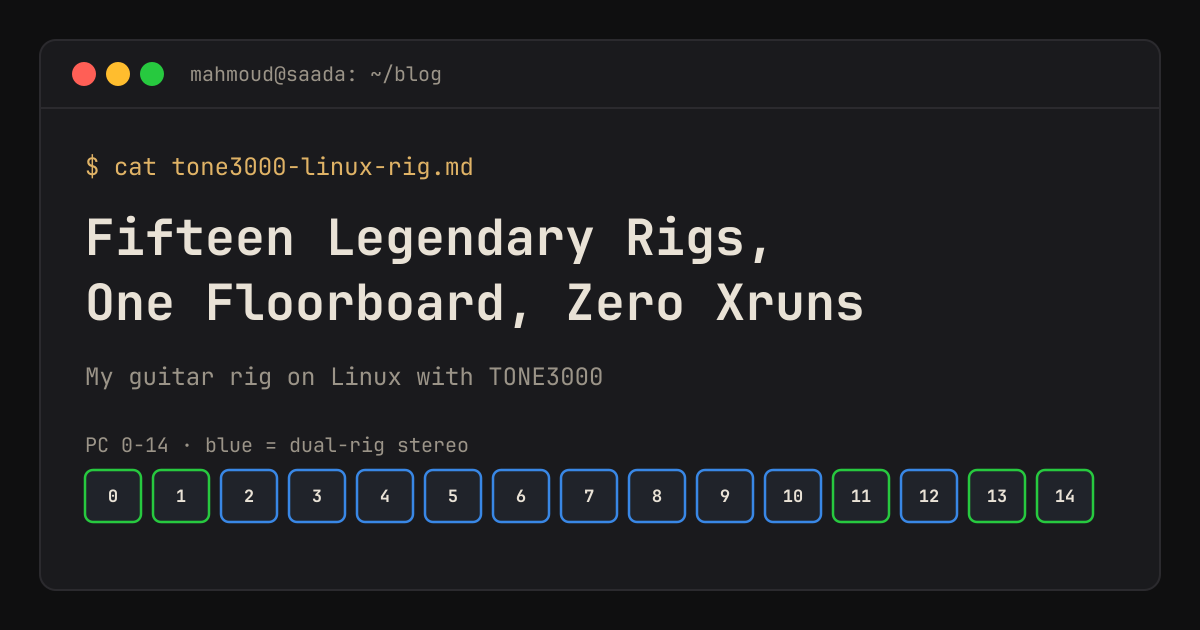
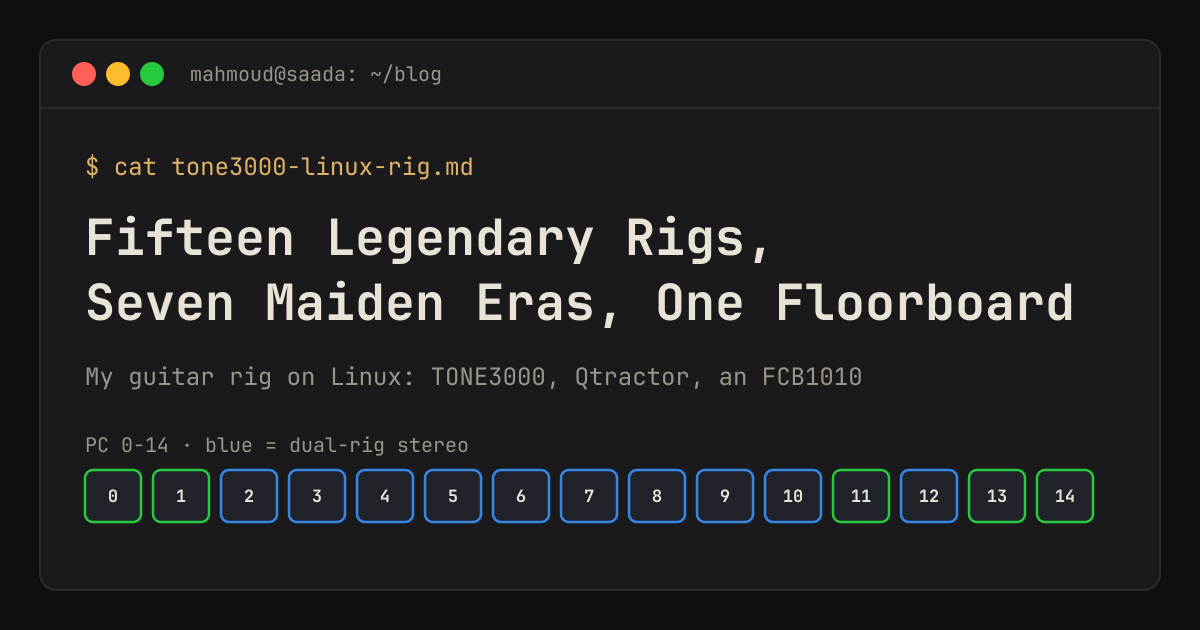
TONE3000 post: new title, tuner chapter, practice guide, stale-claim audit
- Retitle to "Fifteen Legendary Rigs, Seven Maiden Eras, One Floorboard: My
  Guitar Rig on Linux" (title, h1, og/twitter, JSON-LD, sitemap, home listing,
  og card); drop the "Zero Xruns" claim, new description covering the DAW,
  Maiden, harmony and tuner arc
- New chapter "SW10: the tuner that took four tries": Python -> x42 Tuna/jalv
  -> FMIT -> Chromatic, with the FMIT and Chromatic before/after screenshots,
  the Hyprland rule, the latch-mode mute (D13), and D14 (tuner on the mic,
  two instances, ~250 xruns in 12 s; 1 in ~15 s with it closed)
- New "Practice guide" section: once / every session / Maiden song recipes /
  troubleshooting, adapted from the README
- Commands use uv run instead of python3; uv added to the pacman line
- Audit vs fcb1010-biasfx2@633f6eb: live play + live FCB check noted in the
  limits list, re-login for real time still pending, D0-D14, part-one
  forward links to the wah/harmony/tuner, Trooper sixths wording

Claude-Session: https://claude.ai/code/session_012TKPMMo4XzZnfbupbKYXAR

Changed region(s): [[0.0617, 0.4524, 0.8942, 0.5127], [0.3392, 0.573, 0.74, 0.6333]]

diff --git a/blog/tone3000-linux-rig/index.html b/blog/tone3000-linux-rig/index.html
@@ -2,17 +2,17 @@
 <html lang="en"><head>
 <meta charset="utf-8">
 <meta name="viewport" content="width=device-width, initial-scale=1">
-<title>Fifteen Legendary Rigs, One Floorboard, Zero Xruns: My Guitar Rig on Linux with TONE3000</title>
-<meta name="description" content="BIAS FX 2 under Wine never felt right. Then TONE3000 shipped a native Linux plugin, and one very long Saturday later every song on my FCB1010 runs a researched copy of the band&#x27;s actual rig.">
+<title>Fifteen Legendary Rigs, Seven Maiden Eras, One Floorboard: My Guitar Rig on Linux</title>
+<meta name="description" content="BIAS FX 2 under Wine never felt right. Then TONE3000 shipped a native Linux plugin, and one very long weekend later my FCB1010 drives fifteen researched rigs, a DAW that&#x27;s generated instead of clicked, seven eras of Iron Maiden with instant scenes and a second guitarist on a footswitch, and a tuner that took four tries.">
 <meta name="author" content="Mahmoud Saada">
-<meta name="keywords" content="TONE3000, Qtractor, Iron Maiden, DAW, Neural Amp Modeler, NAM, Linux guitar, Omarchy, PipeWire, JACK, FCB1010, BIAS FX 2, Wine, latency, xruns, gain staging, impulse response, reverse engineering">
+<meta name="keywords" content="TONE3000, Qtractor, Iron Maiden, DAW, guitar tuner, Chromatic, Hyprland, Neural Amp Modeler, NAM, Linux guitar, Omarchy, PipeWire, JACK, FCB1010, BIAS FX 2, Wine, latency, xruns, gain staging, impulse response, reverse engineering">
 <meta name="robots" content="index, follow, max-image-preview:large, max-snippet:-1">
 <link rel="canonical" href="https://saada.github.io/blog/tone3000-linux-rig/">
 <meta name="theme-color" content="#0f0f10">
 <meta property="og:type" content="article">
 <meta property="og:site_name" content="Mahmoud Saada">
-<meta property="og:title" content="Fifteen Legendary Rigs, One Floorboard, Zero Xruns: My Guitar Rig on Linux with TONE3000">
-<meta property="og:description" content="BIAS FX 2 under Wine never felt right. Then TONE3000 shipped a native Linux plugin, and one very long Saturday later every song on my FCB1010 runs a researched copy of the band&#x27;s actual rig.">
+<meta property="og:title" content="Fifteen Legendary Rigs, Seven Maiden Eras, One Floorboard: My Guitar Rig on Linux">
+<meta property="og:description" content="BIAS FX 2 under Wine never felt right. Then TONE3000 shipped a native Linux plugin, and one very long weekend later my FCB1010 drives fifteen researched rigs, a DAW that&#x27;s generated instead of clicked, seven eras of Iron Maiden with instant scenes and a second guitarist on a footswitch, and a tuner that took four tries.">
 <meta property="og:url" content="https://saada.github.io/blog/tone3000-linux-rig/">
 <meta property="og:locale" content="en_US">
 <meta property="og:image" content="https://saada.github.io/blog/tone3000-linux-rig/images/og-card.png">
@@ -20,6 +20,7 @@
 <meta property="og:image:height" content="630">
 <meta property="og:image:alt" content="A guitar rig running natively on Linux with TONE3000 and an FCB1010">
 <meta property="article:published_time" content="2026-09-26T00:00:00Z">
+<meta property="article:modified_time" content="2026-09-27T00:00:00Z">
 <meta property="article:author" content="Mahmoud Saada">
 <meta property="article:section" content="Engineering">
 <meta property="article:tag" content="Linux">
@@ -28,8 +29,8 @@
 <meta name="twitter:card" content="summary_large_image">
 <meta name="twitter:site" content="@saadazzz">
 <meta name="twitter:creator" content="@saadazzz">
-<meta name="twitter:title" content="Fifteen Legendary Rigs, One Floorboard, Zero Xruns: My Guitar Rig on Linux with TONE3000">
-<meta name="twitter:description" content="BIAS FX 2 under Wine never felt right. Then TONE3000 shipped a native Linux plugin, and one very long Saturday later every song on my FCB1010 runs a researched copy of the band&#x27;s actual rig.">
+<meta name="twitter:title" content="Fifteen Legendary Rigs, Seven Maiden Eras, One Floorboard: My Guitar Rig on Linux">
+<meta name="twitter:description" content="BIAS FX 2 under Wine never felt right. Then TONE3000 shipped a native Linux plugin, and one very long weekend later my FCB1010 drives fifteen researched rigs, a DAW that&#x27;s generated instead of clicked, seven eras of Iron Maiden with instant scenes and a second guitarist on a footswitch, and a tuner that took four tries.">
 <meta name="twitter:image" content="https://saada.github.io/blog/tone3000-linux-rig/images/og-card.png">
 <meta name="twitter:image:alt" content="A guitar rig running natively on Linux with TONE3000 and an FCB1010">
 <script type="application/ld+json">
@@ -37,13 +38,13 @@
   "@context": "https://schema.org",
   "@type": "BlogPosting",
   "mainEntityOfPage": { "@type": "WebPage", "@id": "https://saada.github.io/blog/tone3000-linux-rig/" },
-  "headline": "Fifteen Legendary Rigs, One Floorboard, Zero Xruns: My Guitar Rig on Linux with TONE3000",
-  "description": "BIAS FX 2 under Wine never felt right. Then TONE3000 shipped a native Linux plugin, and one very long Saturday later every song on my FCB1010 runs a researched copy of the band&#x27;s actual rig.",
+  "headline": "Fifteen Legendary Rigs, Seven Maiden Eras, One Floorboard: My Guitar Rig on Linux",
+  "description": "BIAS FX 2 under Wine never felt right. Then TONE3000 shipped a native Linux plugin, and one very long weekend later my FCB1010 drives fifteen researched rigs, a DAW that&#x27;s generated instead of clicked, seven eras of Iron Maiden with instant scenes and a second guitarist on a footswitch, and a tuner that took four tries.",
   "image": "https://saada.github.io/blog/tone3000-linux-rig/images/og-card.png",
   "datePublished": "2026-09-26T00:00:00Z",
-  "dateModified": "2026-09-26T00:00:00Z",
+  "dateModified": "2026-09-27T00:00:00Z",
   "inLanguage": "en",
-  "keywords": "TONE3000, NAM, Linux, PipeWire, FCB1010, latency, gain staging",
+  "keywords": "TONE3000, NAM, Linux, PipeWire, Qtractor, Iron Maiden, FCB1010, latency, gain staging",
   "author": {
     "@type": "Person",
     "name": "Mahmoud Saada",
@@ -218,6 +219,13 @@ ul.chain .role { font-family:var(--mono); font-size:.72rem; color:var(--muted); 
   .toc { columns:1 }
   figure.viz { padding:12px 10px 10px }
 }
+.shots { display:flex; gap:12px; align-items:flex-start; margin:26px 0 10px }
+.shots figure { margin:0; min-width:0 }
+.shots img { margin:0; width:100% }
+@media (max-width: 560px) {
+  .shots { flex-direction:column }
+  .shots figure { flex:none !important; width:100% }
+}
 
 .viz text { font-family: "JetBrains Mono", ui-monospace, Menlo, monospace; fill: var(--viz-muted); font-size: 11px; }
 .viz .t-sub { fill: var(--viz-ink); font-size: 11.5px; font-weight: 700; }
@@ -269,15 +277,15 @@ ul.chain .role { font-family:var(--mono); font-size:.72rem; color:var(--muted); 
     </div>
     <div class="terminal__body">
       <div class="prompt">cat tone3000-linux-rig.md</div>
-      <h1>Fifteen Legendary Rigs, One Floorboard, Zero Xruns: My Guitar Rig on Linux with TONE3000</h1>
-      <div class="subtitle">BIAS FX 2 under Wine never felt right. Then TONE3000 shipped a native Linux plugin, and one very long Saturday later every song on my FCB1010 runs a researched copy of the band&#x27;s actual rig.<span class="cursor">▋</span></div>
+      <h1>Fifteen Legendary Rigs, Seven Maiden Eras, One Floorboard: My Guitar Rig on Linux</h1>
+      <div class="subtitle">BIAS FX 2 under Wine never felt right. Then TONE3000 shipped a native Linux plugin, and one very long weekend later my FCB1010 drives fifteen researched rigs, a DAW that&#x27;s generated instead of clicked, seven eras of Iron Maiden with instant scenes and a second guitarist on a footswitch, and a tuner that took four tries.<span class="cursor">▋</span></div>
     </div>
   </header>
   <article>
 <p>Two months ago I wrote about how <a href="/blog/fcb1010-biasfx2/">my dusty Behringer FCB1010 and BIAS FX 2 finally started talking to each other</a>, and how I stood in my living room grinning through The Evil That Men Do. Then I did the thing every developer threatens to do and eventually does: I left macOS. My laptop runs <a href="https://omarchy.org">Omarchy</a> now, the opinionated Arch + Hyprland setup, and I love it.</p>
 <p>My guitar rig did not come along quietly.</p>
 <p>This post is the story of one very long Saturday. It has a native Linux amp-sim plugin I'm genuinely excited about, a reverse-engineered preset format, fifteen research agents arguing about what amp Dave Murray used in 1988, a bug that only bites WAV files with an odd number of bytes, a pile of latency measurements, and a volume slider that had been quietly stealing 24 dB from me the whole time. There are charts. Of course there are charts.</p>
-<p>And when the day should have been over, <a href="#part-two">part two</a>: a DAW that's generated instead of clicked, a compressor that ended a day of hand-leveling, and <a href="#maiden">seven eras of Iron Maiden</a> on one floorboard, with scene switching that doesn't drop a single chord and a footswitch that adds <a href="#harmony">the second guitarist</a>. If you're only here for the board, all ten banks are in <a href="#pedal-map">the full pedal map</a>.</p>
+<p>And when the day should have been over, <a href="#part-two">part two</a>: a DAW that's generated instead of clicked, a compressor that ended a day of hand-leveling, and <a href="#maiden">seven eras of Iron Maiden</a> on one floorboard, with scenes that switch without the hole a preset load leaves and a footswitch that adds <a href="#harmony">the second guitarist</a>. Then Sunday, and <a href="#tuner">a tuner that took four tries</a> and taught me something about dropouts. If you're only here for the board, all ten banks are in <a href="#pedal-map">the full pedal map</a>, and <a href="#practice">the practice guide</a> is how I actually use it.</p>
 
 <h2>10 ms on paper, mud in my hands</h2>
 <p>BIAS FX 2 is a Windows/macOS app, so on Linux it runs under Wine. And it <em>did</em> run! Presets loaded, the FCB1010 switched them, the tones sounded like my tones. The app even told me my latency was about 10 ms, which is perfectly playable.</p>
@@ -671,16 +679,16 @@ def load_t3kb(data):
 <h2>What TONE3000 can't do (yet)</h2>
 <p>I'm excited about this plugin, so let me be honest about the gaps too:</p>
 <ul>
-<li><strong>No time-varying effects.</strong> Chorus, flanger, phaser, wah, pitch and rotary can't be captured. So no wah on EXP A anymore (it sweeps treble instead), no Leslie for Gilmour, no Whammy for My Iron Lung, and <strong>no harmonizer</strong>. The 3rds trick from my last post is BIAS-only; on TONE3000, the Maiden twin leads need two players again. Align and Spread wobble get you movement, not modulation.</li>
+<li><strong>No time-varying effects.</strong> Chorus, flanger, phaser, wah, pitch and rotary can't be captured. So no wah on EXP A anymore (it sweeps treble instead), no Leslie for Gilmour, no Whammy for My Iron Lung, and <strong>no harmonizer</strong>. The 3rds trick from my last post is BIAS-only; on TONE3000 alone, the Maiden twin leads need two players again. (Part two brings back <a href="#part-two">the wah</a> and <a href="#harmony">the harmony</a>, from a DAW.) Align and Spread wobble get you movement, not modulation.</li>
 <li><strong>No built-in delay or reverb.</strong> Generated echo IRs work, but they're frozen: fixed time, no tap tempo, no feedback knob mid-song.</li>
 <li><strong>Some captures are stand-ins.</strong> A IIC+ plays Prince's IIB, a PCM90/91 plays the PCM70, the Triple Giant is a circuit simulation rather than a real unit, the Sunset Sound plate is a DAW emulation, there's no Colorsound Powerboost, and both Leslie captures in the catalog failed to resolve. Every preset's notes say exactly what's approximated.</li>
 <li><strong>One amp per side.</strong> Oasis's Orange, WEM and Valvestate layers and Jim Root's Laney didn't make the cut.</li>
-<li><strong>Loose ends.</strong> The relative loudness of the two sides of each dual rig is still untested, the tuner isn't MIDI-mappable (part two puts <a href="#pedal-map">a tuner app, Chromatic, on SW10</a> instead), and the silent-IR bugs are worked around, not fixed.</li>
+<li><strong>Loose ends.</strong> The relative loudness of the two sides of each dual rig is still untested, the tuner isn't MIDI-mappable (part two puts <a href="#tuner">a tuner app, Chromatic, on SW10</a> instead), and the silent-IR bugs are worked around, not fixed.</li>
 </ul>
 <p>And it's version 0.0.9. For a 0.0.9, this is ridiculous.</p>
 
 <h2>We did it</h2>
-<p>A native Linux amp sim, fifteen researched rigs, one floorboard that didn't need a single SysEx byte changed, zero xruns, and exactly one volume knob. On Linux. On a laptop.</p>
+<p>A native Linux amp sim, fifteen researched rigs, one floorboard that didn't need a single SysEx byte changed, zero xruns at 256 samples in the standalone, and exactly one volume knob. On Linux. On a laptop. (Xruns come back in part two, with three TONE3000s in a DAW. I'm not done with them.)</p>
 <p>Same as last time, I did all of this pair-programming, this time with Claude Code. It reverse-engineered the preset format and the settings blob, read the disassembly, ran the fifteen research agents, and ran every A/B test above with <code>pw-top</code> and <code>pw-record</code> while I played. The thing I appreciate most: when the experiments rejected our hypotheses, the write-ups say so.</p>
 <p>Everything is open source on the <code>linux-wine-support</code> branch of <strong><a href="https://github.com/saada/fcb1010-biasfx2">github.com/saada/fcb1010-biasfx2</a></strong> (<a href="https://github.com/saada/fcb1010-biasfx2/pull/1">PR #1</a>):</p>
 <ul>
@@ -790,7 +798,7 @@ cd fcb1010-biasfx2
 <p><strong>What every switch sends.</strong> Scene switches send absolute values, so they're instant and always land in the same state. Everything on the top row is a toggle: the stock FCB sends 127 on every press, and every press flips it.</p>
 <div class="tablewrap"><table><thead><tr><th>Switch</th><th>Song banks 00–02</th><th>Maiden banks 03–09</th></tr></thead><tbody><tr><td>SW1</td><td rowspan="5"><strong>SONG</strong>: PC 0–14 on ch 1, CC 80 = 63, CC 81 = 0. <em>Preset load.</em> Loads the song and resets the scene state: heavy rig, Solo block off.</td><td><strong>RHYTHM</strong>: PC heavy (ch 1) + clean (ch 2) + harmony (ch 3), CC 80 = 63, CC 81 = 0. <em>Instant scene.</em> Twin-guitar rhythm. After a bank change, this is what loads the era.</td></tr><tr><td>SW2</td><td><strong>SOLO</strong>: no PC, CC 80 = 72, CC 81 = 0. <em>Instant scene.</em> Amps pushed, +2 dB and the song's lead echo.</td></tr><tr><td>SW3</td><td><strong>CLEAN</strong>: PC heavy (ch 1) + clean (ch 2) + harmony (ch 3), CC 80 = 63, CC 81 = 127. <em>Instant scene.</em> The era's reverby clean.</td></tr><tr><td>SW4</td><td><strong>ACOUSTIC</strong>: the same PCs with the acoustic preset on ch 2, CC 80 = 63, CC 81 = 127. <em>Instant scene.</em> Electric-to-acoustic.</td></tr><tr><td>SW5</td><td><strong>CRUNCH</strong>: no PC, CC 80 = 48, CC 81 = 0. <em>Instant scene.</em> The volume-knob-down sound.</td></tr><tr><td>SW6</td><td colspan="2"><strong>WAH</strong>: CC 20. <em>Toggle.</em> The Guitarix wah in the DAW; EXP A sweeps it.</td></tr><tr><td>SW7</td><td><strong>OCTAVER</strong>: CC 21. <em>Toggle.</em> Guitarix, an octave down.</td><td><strong>HARMONY</strong>: CC 25. <em>Toggle.</em> The second guitarist, a diatonic third up in the song's key.</td></tr><tr><td>SW8</td><td><strong>LEAD</strong>: CC 26. <em>Toggle.</em> The boost (slot 1) and the song's echo (slot 5, and R3 on a dual rig) together.</td><td><strong>BOOST</strong>: CC 22. <em>Toggle.</em> The boost pedal (slot 1).</td></tr><tr><td>SW9</td><td><strong>DRIVE</strong>: CC 23. <em>Toggle.</em> The song's drive pedal (slot 2).</td><td><strong>DELAY + REVERB</strong>: CC 24. <em>Toggle.</em> The era's delay + reverb (slot 5 and R3).</td></tr><tr><td>SW10</td><td colspan="2"><strong>TUNER</strong>: CC 28. <em>Toggle.</em> The helper mutes the rig and opens Chromatic, a tuner, on the clean guitar input. Press again to play.</td></tr><tr><td>EXP A</td><td colspan="2">CC 27: wah sweep.</td></tr><tr><td>EXP B</td><td colspan="2">CC 7: volume (TONE3000's output level).</td></tr></tbody></table></div>
 <p class="caption">From the pedal map in <a href="https://github.com/saada/fcb1010-biasfx2/blob/linux-wine-support/README.md">README.md</a>, with the numbers from <a href="https://github.com/saada/fcb1010-biasfx2/blob/linux-wine-support/rig.py">rig.py</a>.</p>
-<p><strong>The tuner.</strong> TONE3000's own tuner is a button you click in its UI, with no MIDI target, so SW10 goes through the helper instead. On CC 28 it mutes the rig and opens Chromatic, a GTK4 tuner from Flathub, with <code>PIPEWIRE_NODE</code> set to the guitar input so it hears only the clean guitar. Press again: <code>flatpak kill</code> closes the window and the rig comes back. A Hyprland rule floats it centred, 1100×760 and opaque (it's in the <a href="https://github.com/saada/fcb1010-biasfx2/blob/linux-wine-support/README.md">README</a>). Chromatic is the fourth tuner. Claude's first attempt was hand-rolled in Python; I wanted existing software, not a custom tuner. Next came x42 Tuna, from the plugin pack the rig already installs, in its own window via <code>jalv</code>. It worked, but I found it ugly. Then FMIT, a Qt app: its fixed layout didn't survive tiling and the note readout got clipped. "Insanely ugly with bad aspect ratios", in my words, and not playing nice with Hyprland. So it's Chromatic. Muting the rig took four tries; that's <a href="#d13">D13</a>.</p>
+<p><strong>The tuner.</strong> SW10 mutes the rig and opens a tuner on the guitar input; press it again to play. It's the same in all ten banks. It also took four tries and one very confusing practice session, so it gets <a href="#tuner">its own chapter</a>.</p>
 
 <h3>Why a scene can't just be a preset</h3>
 <p>The obvious design is a preset per scene and a Program Change per stomp. Before building that, we measured what a PC costs.</p>
@@ -884,7 +892,7 @@ cd fcb1010-biasfx2
 <p><strong>And then the honest part.</strong> Repeat steady runs of the same rig, nothing touched: 31, 4 and 12 xruns, at a median load of only 0.43–0.55 of the cycle. A load that low doesn't explain xruns that random. Scheduling does. No audio thread on this machine was running real-time: Qtractor's and PipeWire's data loops were <code>SCHED_OTHER</code>, <code>ulimit -r</code> was 0, and PipeWire's log said <code>RTKit error: ServiceUnknown</code>. Remember the realtime group from part one, the one my session didn't have yet? I'm in it, <code>realtime-privileges</code> is installed, but the group was added after I logged in, so no running process has it.</p>
 <figure class="viz "><div class="viz__scroll"><svg viewBox="0 0 720 262" role="img" aria-label="Bars of xruns: 71 over 7 bank changes with 3.5 s reverb tails, 0 with them capped at 2 s, and 31, 4 and 12 in repeat steady runs" xmlns="http://www.w3.org/2000/svg"><line x1="272.0" x2="272.0" y1="22" y2="222" class="grid" /><text x="272.0" y="236.0" text-anchor="middle" class="t-tick">0</text><line x1="364.0" x2="364.0" y1="22" y2="222" class="grid" /><text x="364.0" y="236.0" text-anchor="middle" class="t-tick">20</text><line x1="456.0" x2="456.0" y1="22" y2="222" class="grid" /><text x="456.0" y="236.0" text-anchor="middle" class="t-tick">40</text><line x1="548.0" x2="548.0" y1="22" y2="222" class="grid" /><text x="548.0" y="236.0" text-anchor="middle" class="t-tick">60</text><line x1="640.0" x2="640.0" y1="22" y2="222" class="grid" /><text x="640.0" y="236.0" text-anchor="middle" class="t-tick">80</text><text x="0.0" y="16.0" class="t-sub">Three TONE3000s: bank and scene changes</text><text x="262.0" y="39.0" text-anchor="end" class="t-label">7 bank changes, 3.5 s reverb tails</text><g><title>7 bank changes, 3.5 s reverb tails: 71 xruns</title><path d="M272.0,28.0 H594.6 Q598.6,28.0 598.6,32.0 V36.0 Q598.6,40.0 594.6,40.0 H272.0 Z" class="m-2" /></g><text x="606.6" y="39.0" class="t-value">71</text><text x="262.0" y="61.0" text-anchor="end" class="t-label">7 bank changes, long IRs removed</text><g><title>7 bank changes, long IRs removed: 0 xruns</title><circle cx="272.5" cy="56.0" r="4" class="m-1" /></g><text x="280.0" y="61.0" class="t-value">0</text><text x="262.0" y="83.0" text-anchor="end" class="t-label">7 bank changes, tails cut at 2.0 s</text><g><title>7 bank changes, tails cut at 2.0 s: 0 xruns</title><circle cx="272.5" cy="78.0" r="4" class="m-3" /></g><text x="280.0" y="83.0" class="t-value">0</text><text x="262.0" y="105.0" text-anchor="end" class="t-label">20 scene switches, tails cut at 2.0 s</text><g><title>20 scene switches, tails cut at 2.0 s: 3 xruns</title><path d="M272.0,94.0 H281.8 Q285.8,94.0 285.8,98.0 V102.0 Q285.8,106.0 281.8,106.0 H272.0 Z" class="m-3" /></g><text x="293.8" y="105.0" class="t-value">3</text><text x="0.0" y="138.0" class="t-sub">Same rig, nothing touched: three repeat steady runs</text><text x="262.0" y="161.0" text-anchor="end" class="t-label">run 1</text><g><title>run 1: 31 xruns</title><path d="M272.0,150.0 H410.6 Q414.6,150.0 414.6,154.0 V158.0 Q414.6,162.0 410.6,162.0 H272.0 Z" class="m-1" /></g><text x="422.6" y="161.0" class="t-value">31</text><text x="262.0" y="183.0" text-anchor="end" class="t-label">run 2</text><g><title>run 2: 4 xruns</title><path d="M272.0,172.0 H286.4 Q290.4,172.0 290.4,176.0 V180.0 Q290.4,184.0 286.4,184.0 H272.0 Z" class="m-1" /></g><text x="298.4" y="183.0" class="t-value">4</text><text x="262.0" y="205.0" text-anchor="end" class="t-label">run 3</text><g><title>run 3: 12 xruns</title><path d="M272.0,194.0 H323.2 Q327.2,194.0 327.2,198.0 V202.0 Q327.2,206.0 323.2,206.0 H272.0 Z" class="m-1" /></g><text x="335.2" y="205.0" class="t-value">12</text><text x="272.0" y="254.0" class="t-axis">xruns · the steady runs: median only 0.43–0.55 B/Q</text></svg></div></figure><p class="caption">D11: xruns with three TONE3000s. The 3.5 s tail length is from the <a href="https://github.com/saada/fcb1010-biasfx2/blob/linux-wine-support/tone3000.py"><code>IR_TAIL_MAX_S</code></a> comment; the run lengths of the repeat steady runs aren't logged.</p>
 <p>The fix should be boring: log out and back in, or install <code>rtkit</code>. Then measure everything again.</p>
-<p id="d13"><strong>D13</strong>, from the round that added the tuner, says it wasn't that boring. rtkit gave PipeWire real-time priority, but PipeWire's rtkit path also caps a real-time process at 200 ms of CPU, and Qtractor got killed at 0.47 s every time, even with an empty session. So JACK clients now skip rtkit (<code>~/.config/pipewire/jack.conf</code>) and take real time from the realtime group's limits instead, which have no cap, once that group is active in my login session. The tuner's mute had its own lesson: a toggled Insert stayed silent after the second press (and on the heavy track it lost its input links too), and <code>wpctl</code> can't mute a JACK node, so the mute is a latch-mode Insert like the Selector, driven by absolute CC 29 values from the helper. It sits before the Selector and the harmony tap, so all three rigs go quiet and their reverb tails ring out. The full re-measurement still hasn't happened, so the xrun numbers above all come from a session with no real-time audio thread.</p>
+<p id="d13"><strong>D13</strong>, from the round that added the tuner, says it wasn't that boring. rtkit gave PipeWire real-time priority, but PipeWire's rtkit path also caps a real-time process at 200 ms of CPU, and Qtractor got killed at 0.47 s every time, even with an empty session. So JACK clients now skip rtkit (<code>~/.config/pipewire/jack.conf</code>) and take real time from the realtime group's limits instead, which have no cap, once that group is active in my login session. That still needs the re-login, so every xrun number in this chapter comes from a session with no real-time audio thread.</p>
 
 <h3 id="per-song">Every song gets its own echo and key</h3>
 <p>HARMONY needs to know the key, and SOLO's echo should land on the song's tempo, not a generic 380 ms. Both are per song, and the FCB has no room left: it sends two CCs per switch, and CC 80 and 81 took both.</p>
@@ -892,8 +900,33 @@ cd fcb1010-biasfx2
 <p>Which song? One more round of research: for each era, the signature harmony song, with its key and tempo from Musicnotes' official transcriptions and from note data extracted from Songsterr. The echo is a quarter note at the song's tempo.</p>
 <div class="tablewrap"><table><thead><tr><th>Bank</th><th>Preset</th><th>Song</th><th>Key</th><th>x42 scale</th><th>Solo echo</th><th>BPM</th></tr></thead><tbody><tr><td>03</td><td>Maiden 82</td><td>Hallowed Be Thy Name</td><td>E natural minor</td><td>G Major</td><td>571 ms</td><td>105</td></tr><tr><td>04</td><td>Maiden 83</td><td>The Trooper</td><td>E natural minor</td><td>G Major</td><td>375 ms</td><td>160</td></tr><tr><td>05</td><td>Maiden 84</td><td>Rime of the Ancient Mariner</td><td>E natural minor</td><td>G Major</td><td>536 ms</td><td>112</td></tr><tr><td>06</td><td>Maiden 86</td><td>Wasted Years</td><td>E natural minor</td><td>G Major</td><td>390 ms</td><td>154</td></tr><tr><td>07</td><td>Maiden 88</td><td>The Evil That Men Do</td><td>E natural minor</td><td>G Major</td><td>375 ms</td><td>160</td></tr><tr><td>08</td><td>Maiden 92</td><td>Fear of the Dark</td><td>D Dorian</td><td>C Major</td><td>750 ms</td><td>80</td></tr><tr><td>09</td><td>Maiden 2000s</td><td>Blood Brothers</td><td>E natural minor</td><td>G Major</td><td>339 ms</td><td>177</td></tr></tbody></table></div>
 <p class="caption">Generated from the <code>song</code> block in each heavy preset (<a href="https://github.com/saada/fcb1010-biasfx2/blob/linux-wine-support/rigs/">rigs 15, 18, …, 33</a>), sources included. The autotune gets the scale with the same notes: G major for E natural minor, C major for D Dorian.</p>
-<p>The research also turned up two places where a third is the wrong answer, and the notes say so: The Trooper's main riff is harmonised in <em>sixths</em>, and the record plays Fear of the Dark's melody in unison. For those, SW7 stays off.</p>
+<p>The research also turned up two places where a third is the wrong answer, and the notes say so: The Trooper's main riff is harmonised in <em>sixths</em>, and the record plays Fear of the Dark's melody in unison. On Fear of the Dark, leave SW7 off. On The Trooper, a third is a stand-in: closer to the record than one guitar, but not the record.</p>
 <p><strong>D12, the test:</strong> replay an FCB Program Change 30 (bank 08, Fear of the Dark) into the helper, then read the saved session back. The Solo delay said <strong>748 ms</strong>. The target is 750, and one CC step is 7.9 ms, so that's as close as a CC gets. All three autotune stages said scale 1: C major, the notes of D Dorian.</p>
+
+<h3 id="tuner">SW10: the tuner that took four tries</h3>
+<p>The last switch should have been the easy one. Every pedalboard has a tuner, and TONE3000 even has one built in. But it's a button you click in its UI (<code>setTunerEnabled</code>, from its web UI) with no MIDI target, so no footswitch can reach it. So SW10 goes through the helper: CC 28 mutes the rig and opens a tuner on the guitar, and the next press closes it and brings the rig back.</p>
+<p>That was Sunday. Picking the tuner is where it went sideways.</p>
+<p><strong>Try 1: hand-rolled, in Python.</strong> Claude's first attempt. I didn't want to maintain a custom tuner. I wanted existing software.</p>
+<p><strong>Try 2: x42 Tuna, in its own window via <code>jalv</code>.</strong> It comes with the plugin pack the rig already installs. But x42's UIs embed as X11 and jalv's GtkPlug crashes under Wayland, so it needed XWayland. It worked. It was ugly.</p>
+<p><strong>Try 3: FMIT</strong>, a native Qt tuner. Its layouts are fixed, and Hyprland's tiling crushed them:</p>
+<img src="images/tuner/fmit-tiled.jpg" width="1400" height="756" loading="lazy" decoding="async" alt="FMIT tiled by Hyprland: a large empty Error graph fills most of the window, and the tuner's numeric readout is squeezed into the bottom-right corner">
+<p class="caption">FMIT in a Hyprland tile. An empty "Error" graph takes most of the window, and the readout I actually need is squeezed into the bottom-right corner, cut off at the edge.</p>
+<p>My review, verbatim: "insanely ugly with bad aspect ratios". And not playing nice with Hyprland.</p>
+<p><strong>Try 4: Chromatic</strong>, a GTK4 tuner from Flathub. One big note name, one big gauge, nothing else, which is exactly what a tuner should be. In the default tile, though, Hyprland gave it 466×508, which clipped the gauge, and Omarchy's default opacity let the desktop show through. One window rule fixed both: float it, centre it, 1100×760, fully opaque. In <code>~/.config/hypr/hyprland.lua</code>:</p>
+<pre><code class="language-lua">o.window("^io\\.github\\.nate_xyz\\.Chromatic$", {
+  float = true, center = true, size = { 1100, 760 },
+  tag = "-default-opacity", opacity = "1 1" })</code></pre>
+<div class="shots">
+<figure style="flex:0.917"><img src="images/tuner/chromatic-tiled.png" width="932" height="1016" loading="lazy" decoding="async" alt="Chromatic in the default Hyprland tile, reading B2 at +44 cents, with the right end of its gauge and the needle's pivot cut off"></figure>
+<figure style="flex:1.448"><img src="images/tuner/chromatic-floating.png" width="1400" height="967" loading="lazy" decoding="async" alt="Chromatic floating at 1100 by 760 after the window rule, the whole gauge visible, idle with no note"></figure>
+</div>
+<p class="caption">Chromatic before and after the rule. Before, in the default tile: it reads B2 at +44 cents, but the +50 end of the gauge and the needle's pivot are cut off. After: floating, centred, 1100×760 and opaque, idle ("--") and waiting for a note. That's the tuner on SW10 now.</p>
+<p><strong>Muting took four tries too</strong> (D13). While I tune, the tuner should hear the guitar and nothing else should. A toggled Insert muted fine, then stayed silent after the second press; at the head of the heavy track it also lost its input links. <code>wpctl set-mute</code> can't mute a JACK node ("does not support mute"). Unpatching the guitar doesn't stick either: Qtractor re-patches its saved insert connections within seconds. What works is the Selector trick again: a latch-mode Insert at the head of the heavy track, driven by absolute CC 29 values from the helper. It sits before the Selector and the harmony tap, so all three rigs go quiet and their reverb tails ring out. Replay test: after one press, the mute is on and one tuner window is open; after the second, the mute is off and no windows are left.</p>
+<p><strong>Then I practised with it.</strong> Playing along, the sound kept cutting up. And the tuner seemed to be following my voice. So I typed:</p>
+<blockquote><p>oh i think it's picking up from my mic?</p></blockquote>
+<p>It was. <strong>D14:</strong> Qtractor's error count went up by about 250 in 12 seconds (6620 → 6870). Two Chromatic instances were running, one left open by an earlier toggle, using about 96% CPU between them: nearly a whole core. And both were recording <strong>Scarlett Input 1</strong>, the mic, not Input 2, the guitar. Chromatic records through ALSA-on-PipeWire and takes the default source, and the <code>PIPEWIRE_NODE</code> the helper passed through <code>flatpak run</code> didn't stick.</p>
+<p>The fix is two rules in the helper. Kill any running instance before opening one, so there are never two. And once Chromatic's input port (<code>ALSA plug-in [chromatic]:input_MONO</code>) appears, replace whatever is connected to it with the guitar. Now it's one window, fed only from Input 2, closed cleanly by the second press. With the tuner closed: <strong>1 xrun in about 15 seconds</strong>, at 0.43–0.58 B/Q. Not zero, but a different planet from 250 in 12.</p>
+<p>My ears caught this one before any measurement did; the measurements explained it. "Close the tuner" is now the first fix for crackles in <a href="#practice">the practice guide</a>. The rest waits on real time (<a href="#d13">D13</a>): until I log out and back in, Qtractor's audio thread runs <code>SCHED_OTHER</code>.</p>
 
 <h2>What it can't do (yet), part two</h2>
 <ul>
@@ -901,23 +934,66 @@ cd fcb1010-biasfx2
 <li><strong>No real chorus, no guitar synth.</strong> TONE3000 has no modulation, so the GK's built-in chorus and Smith's CE-3 are Align wobble stand-ins, and the Roland guitar-synth layers all over Somewhere in Time are out of reach.</li>
 <li><strong>Some reverbs are stand-ins.</strong> No capture exists of Battery's EMT plates (a DAW EMT 140 emulation plays them), Compass Point's Lexicon 224 or Smith's PCM 60 (a 480L and a PCM90 "pcm60 room" preset stand in), and the JCM900's own spring tank is a Valvestate's.</li>
 <li><strong>Some gear is a best guess.</strong> Gers' 1990–92 head and Smith's Brave New World studio amps aren't documented, and sources disagree on Smith's Piece of Mind head. The notes in each preset say so.</li>
-<li><strong>Measured, not yet listened.</strong> Every number above comes from a DI loop or a synthetic melody through the rig. None of the 21 presets, and not the harmony either, has been A/B'd by ear against the actual records yet. That's the next Saturday.</li>
-<li><strong>Xruns: diagnosed, not fixed.</strong> rtkit is out (<a href="#d13">D13</a>), so the JACK clients only get real time once the realtime group is active in my login session, and every xrun count in the Maiden chapter needs re-measuring after that.</li>
+<li><strong>Played, but not A/B'd.</strong> Every number above comes from a DI loop or a synthetic melody through the rig. Since then I've played the Maiden scenes live from the real FCB, with every switch's MIDI checked on the way in, and my verdict was "sounds amazing". What hasn't happened is an A/B against the actual records, era by era, harmony included. That's the next Saturday.</li>
+<li><strong>Xruns: diagnosed, not fixed.</strong> rtkit is out (<a href="#d13">D13</a>), so the JACK clients only get real time once the realtime group is active in my login session. That needs a re-login I haven't done yet, and every xrun count in the Maiden chapter needs re-measuring after it. Meanwhile: close the tuner before you play (<a href="#tuner">D14</a>).</li>
 <li><strong>Loose ends.</strong> The clean path's extra 5.3 ms is expected, not measured. Run the standalone <em>or</em> the DAW, not both.</li>
 </ul>
 
-<h2>Try it</h2>
-<p>Everything above lives on the same <code>linux-wine-support</code> branch: <a href="https://github.com/saada/fcb1010-biasfx2/blob/linux-wine-support/qtractor_rig.py">qtractor_rig.py</a> for the session, <a href="https://github.com/saada/fcb1010-biasfx2/blob/linux-wine-support/rig.py">rig.py</a> for the floorboard, <a href="https://github.com/saada/fcb1010-biasfx2/blob/linux-wine-support/rigs/RIGS.md">rigs/RIGS.md</a> for all 36 presets (plus the 7 generated harmony voices) and their sources, and experiments D0–D13 in <a href="https://github.com/saada/fcb1010-biasfx2/blob/linux-wine-support/experiments/README.md">experiments/README.md</a> with the raw <a href="https://github.com/saada/fcb1010-biasfx2/blob/linux-wine-support/experiments/daw-dynamics.csv">daw-dynamics.csv</a> and <a href="https://github.com/saada/fcb1010-biasfx2/blob/linux-wine-support/experiments/maiden-levels.csv">maiden-levels.csv</a>.</p>
-<pre><code class="language-sh">sudo pacman -S --needed qtractor x42-plugins-lv2 lsp-plugins-lv2 guitarix flatpak
+<h2 id="practice">Practice guide</h2>
+<p>This is the part I actually use. It's the <a href="https://github.com/saada/fcb1010-biasfx2/blob/linux-wine-support/README.md#practice-guide">README's practice guide</a>, adapted: the things you do once per machine, then the things you do every time you pick up the guitar.</p>
+<h3>Once</h3>
+<ol>
+<li><strong>Install and build.</strong> The packages, uv and Chromatic are in <a href="#try-it">Try it</a> below. <code>./bootstrap.sh</code> builds every preset and the DAW session.</li>
+<li><strong>Program the FCB1010.</strong> Write the layout: <code>uv run rig.py syx ~/Music/fcb-rig/fcb1010-maiden.syx</code>. Put the pedal in receive mode: hold DOWN at power-on, tap UP to CONFIGURATION, then tap SW7 (SYSEX RCV). Send it: <code>amidi -p hw:2,0 -s ~/Music/fcb-rig/fcb1010-maiden.syx</code> (<code>hw:2,0</code> is my MIDI interface; <code>amidi -l</code> lists yours). Hold DOWN to save. Then recalibrate the expression pedals: hold SW1+SW5 at power-on, then heel and toe each pedal.</li>
+<li><strong>Real-time audio.</strong> Add your user to the <code>realtime</code> group (<code>realtime-privileges</code>) and log out and back in. Then turn rtkit off for JACK apps, because its 200 ms cap kills Qtractor (<a href="#d13">D13</a>): copy <code>/usr/share/pipewire/jack.conf</code> to <code>~/.config/pipewire/</code> and set <code>rtportal.enabled = false</code> and <code>rtkit.enabled = false</code> in the <code>libpipewire-module-rt</code> args.</li>
+<li><strong>Gain staging.</strong> Set the Scarlett's monitor knob to your loudest comfortable level. The Linux output (the sink) stays at 100%. Play Spotify or YouTube at 100%: the guitar is levelled to sit just above it. One knob, like part one said.</li>
+</ol>
+<h3>Every session</h3>
+<ol>
+<li>Plug in the Scarlett (guitar in <strong>Input 2</strong>) and the FCB, then run <code>uv run qtractor_rig.py up</code>. It takes about 10 seconds and starts on the Maiden 82 bank.</li>
+<li><strong>Tune:</strong> press SW10. The rig mutes and Chromatic opens on your guitar. Tune, then press SW10 again.</li>
+<li><strong>Pick a bank</strong> with UP/DOWN, and press <strong>RHYTHM, CLEAN or ACOUSTIC</strong> first: those load the era. SOLO and CRUNCH only change the drive, so they assume the era is already loaded.</li>
+<li>Play along with the track in Spotify or YouTube.</li>
+<li><strong>Record</strong> a take: <code>uv run qtractor_rig.py record</code>, then <code>uv run qtractor_rig.py stop</code>. It saves the full rig and the dry DI in <code>~/Music/fcb-rig/</code>, so you can re-amp later.</li>
+<li>When you're done: <code>uv run qtractor_rig.py down</code>.</li>
+</ol>
+<h3>Maiden song recipes</h3>
+<div class="tablewrap"><table>
+<thead><tr><th>Song (bank)</th><th>How to play it on the board</th></tr></thead>
+<tbody>
+<tr><td>Hallowed Be Thy Name (03)</td><td>CLEAN for the arpeggio intro → RHYTHM when the band comes in → SOLO for the leads. HARMONY on the twin lines (E minor).</td></tr>
+<tr><td>The Trooper (04)</td><td>RHYTHM gallop → SOLO for the solo. HARMONY for the main riff's twin line.</td></tr>
+<tr><td>Rime of the Ancient Mariner (05)</td><td>RHYTHM → CLEAN for the quiet middle section → back to RHYTHM → SOLO.</td></tr>
+<tr><td>Wasted Years (06)</td><td>SOLO + SW9 (delay + reverb) for the intro lead → RHYTHM for the verses.</td></tr>
+<tr><td>The Evil That Men Do (07)</td><td>RHYTHM, then HARMONY for the harmonised bridge.</td></tr>
+<tr><td>Fear of the Dark (08)</td><td>CRUNCH + SW9 for the quiet intro melody (750 ms echo) → RHYTHM for the gallop → SOLO. HARMONY is set to D Dorian, but the record plays that melody in unison.</td></tr>
+<tr><td>Journeyman (09)</td><td>ACOUSTIC for the whole song.</td></tr>
+</tbody></table></div>
+<p class="caption">From the practice guide in <a href="https://github.com/saada/fcb1010-biasfx2/blob/linux-wine-support/README.md">README.md</a>. The record harmonises The Trooper's riff in sixths (<a href="#per-song">see above</a>), so HARMONY's third is an approximation there.</p>
+<p><strong>Two soloists:</strong> neck pickup for Murray's fluid legato, bridge for Smith's and Gers' bite. <strong>Wah</strong> is SW6 plus EXP A; <strong>volume swells</strong> are EXP B.</p>
+<h3>When something's off</h3>
+<div class="tablewrap"><table>
+<thead><tr><th>Symptom</th><th>Fix</th></tr></thead>
+<tbody>
+<tr><td>No sound</td><td>The tuner mute may be on: press SW10. Otherwise check Input 2 and the Scarlett's monitor knob.</td></tr>
+<tr><td>Wrong era or tone after changing bank</td><td>Press RHYTHM, CLEAN or ACOUSTIC to load the era.</td></tr>
+<tr><td>Crackles or dropouts</td><td>Close the tuner (SW10). Log out and in so Qtractor gets real-time priority. Avoid heavy apps while playing.</td></tr>
+<tr><td>Guitar too loud or quiet next to the music</td><td>Use the Scarlett monitor knob for overall level and EXP B for the guitar; leave the Linux volume at 100%.</td></tr>
+<tr><td>The rig won't start</td><td><code>uv run qtractor_rig.py down</code>, then <code>up</code>. For details: <code>journalctl --user -u qtractor-rig</code>.</td></tr>
+</tbody></table></div>
+
+<h2 id="try-it">Try it</h2>
+<p>Everything above lives on the same <code>linux-wine-support</code> branch: <a href="https://github.com/saada/fcb1010-biasfx2/blob/linux-wine-support/qtractor_rig.py">qtractor_rig.py</a> for the session, <a href="https://github.com/saada/fcb1010-biasfx2/blob/linux-wine-support/rig.py">rig.py</a> for the floorboard, <a href="https://github.com/saada/fcb1010-biasfx2/blob/linux-wine-support/rigs/RIGS.md">rigs/RIGS.md</a> for all 36 presets (plus the 7 generated harmony voices) and their sources, and experiments D0–D14 in <a href="https://github.com/saada/fcb1010-biasfx2/blob/linux-wine-support/experiments/README.md">experiments/README.md</a> with the raw <a href="https://github.com/saada/fcb1010-biasfx2/blob/linux-wine-support/experiments/daw-dynamics.csv">daw-dynamics.csv</a> and <a href="https://github.com/saada/fcb1010-biasfx2/blob/linux-wine-support/experiments/maiden-levels.csv">maiden-levels.csv</a>.</p>
+<pre><code class="language-sh">sudo pacman -S --needed qtractor x42-plugins-lv2 lsp-plugins-lv2 guitarix flatpak uv
 flatpak install flathub io.github.nate_xyz.Chromatic   # the SW10 tuner
 git clone -b linux-wine-support https://github.com/saada/fcb1010-biasfx2
 cd fcb1010-biasfx2
 ./bootstrap.sh ~/Downloads/TONE3000-*-linux-x64.tar.gz   # 43 presets + DAW session
-uv run rig.py send               # upload the new FCB layout once (RIG-NOTES.md)
-python3 qtractor_rig.py up       # write ~/Music/fcb-rig/rig.qtr, launch at quantum 256
-python3 qtractor_rig.py record   # take: processed stereo rig + dry DI
-python3 qtractor_rig.py stop
-python3 qtractor_rig.py down     # save + quit</code></pre>
+uv run rig.py send               # upload the FCB layout once (or syx + amidi: practice guide)
+uv run qtractor_rig.py up        # write ~/Music/fcb-rig/rig.qtr, launch at quantum 256
+uv run qtractor_rig.py record    # take: processed stereo rig + dry DI
+uv run qtractor_rig.py stop
+uv run qtractor_rig.py down      # save + quit</code></pre>
 <p>Then bank 07, SW1. Murray's GK 250ML on the left, Smith's 2000CPL on the right. Play the intro of The Evil That Men Do on CLEAN, stomp RHYTHM for the riff, SW7 when the bridge harmony comes around, SOLO when it's time, and listen to nothing disappear between them. On Linux. From a pedalboard that lived under my desk for years.</p>
 <p>Up the Irons.</p>
 

diff --git a/components/Home.tsx b/components/Home.tsx
@@ -183,7 +183,7 @@ async function getPosts(): Promise<Post[]> {
   });
   posts.push({
     title:
-      "Fifteen Legendary Rigs, One Floorboard, Zero Xruns: My Guitar Rig on Linux with TONE3000",
+      "Fifteen Legendary Rigs, Seven Maiden Eras, One Floorboard: My Guitar Rig on Linux",
     link: "/blog/tone3000-linux-rig/",
     pubDate: "2026-09-26 00:00:00",
   });
